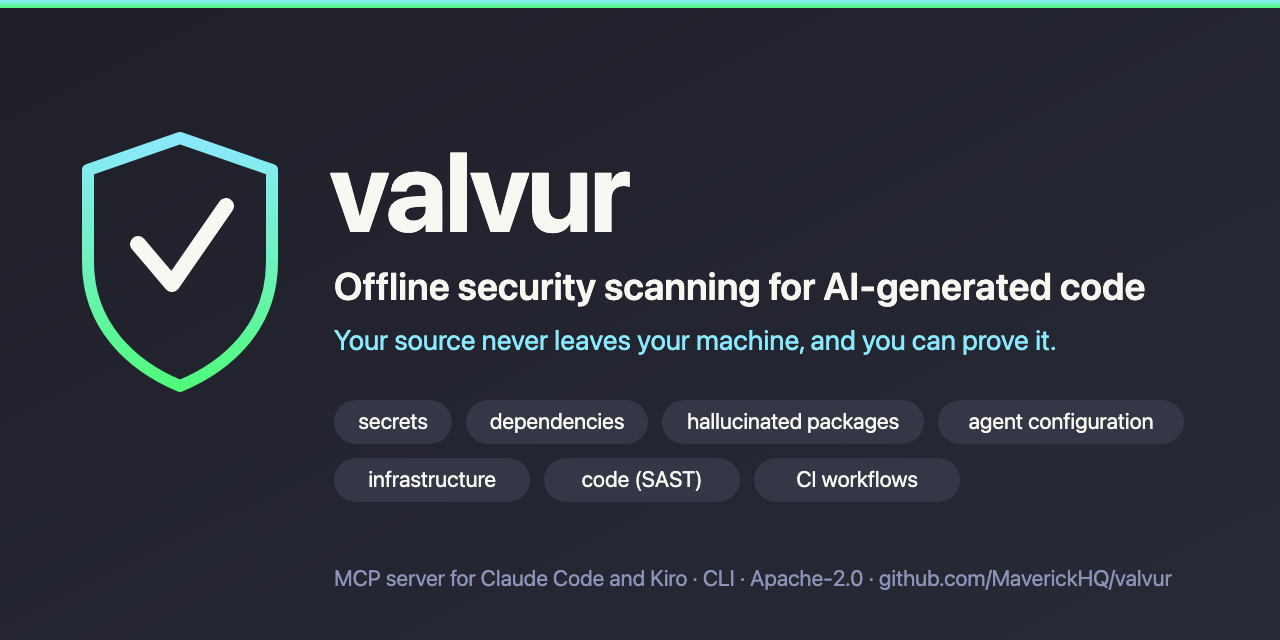
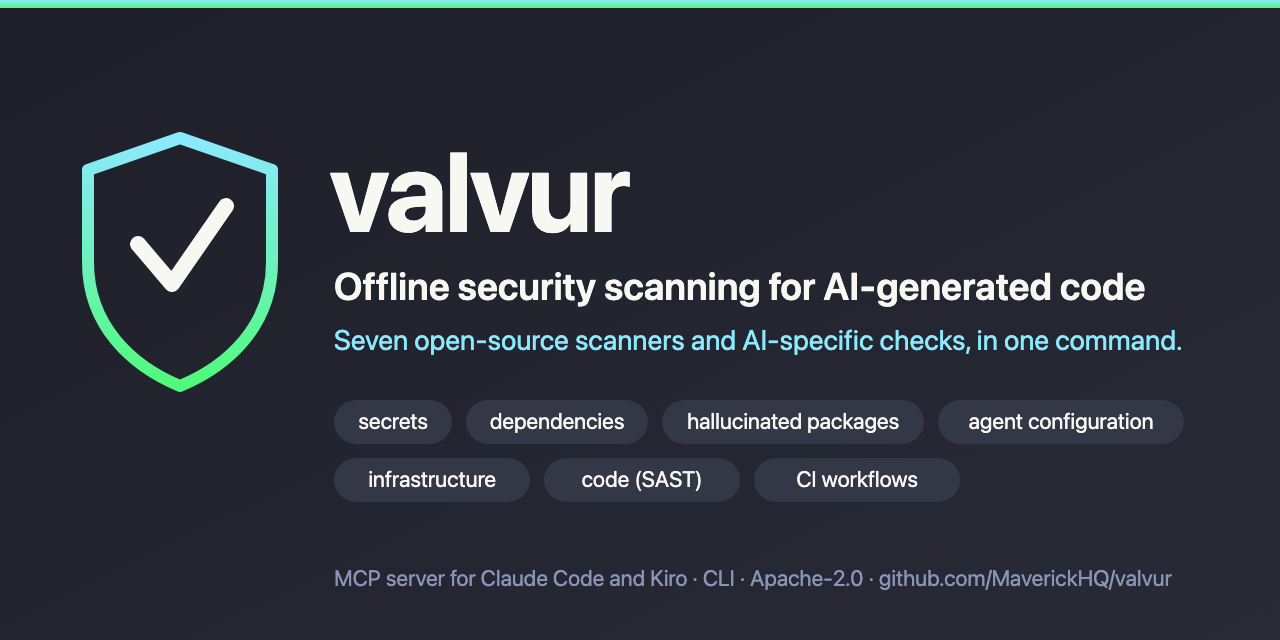
docs(r39): the tagline says what valvur brings together, not that it can be proved
At the owner's word: "and you can prove it" carried no value for a reader.
The README's second line and the social preview now say seven open-source
scanners and AI-specific checks, in one command; the README adds one ranked
report. Staying offline is still the first line, the first reason under Why
valvur, and the GitHub description.

Changed region(s): [[0.25, 0.5, 0.9375, 0.5625]]

diff --git a/README.md b/README.md
@@ -6,7 +6,7 @@
 </picture>
 
 **Offline security scanning for AI-generated code.**<br>
-Your source never leaves your machine, and you can prove it.
+Seven open-source scanners and AI-specific checks, in one command and one ranked report.
 
 [![PyPI](https://img.shields.io/pypi/v/valvur)](https://pypi.org/project/valvur/) [![Python 3.11+](https://img.shields.io/badge/python-3.11%2B-blue)](https://pypi.org/project/valvur/) [![CI](https://github.com/MaverickHQ/valvur/actions/workflows/ci.yml/badge.svg?branch=main)](https://github.com/MaverickHQ/valvur/actions/workflows/ci.yml) [![OpenSSF Scorecard](https://api.scorecard.dev/projects/github.com/MaverickHQ/valvur/badge)](https://scorecard.dev/viewer/?uri=github.com/MaverickHQ/valvur) [![Licence: Apache-2.0](https://img.shields.io/badge/licence-Apache--2.0-blue)](LICENSE)
 <br><sub>Scorecard's Code-Review, Branch-Protection and Contributors checks need a second maintainer; valvur has one ([MAINTAINERS.md](MAINTAINERS.md)).</sub>
